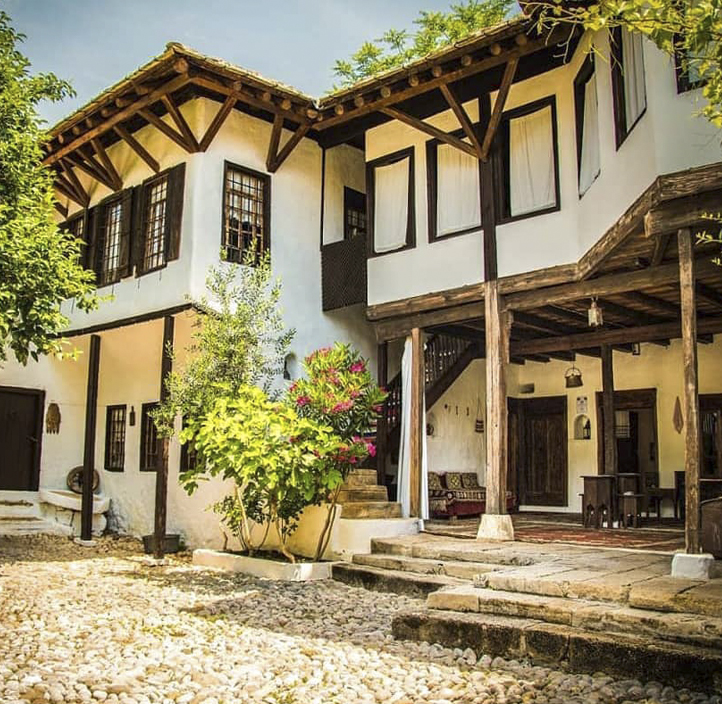
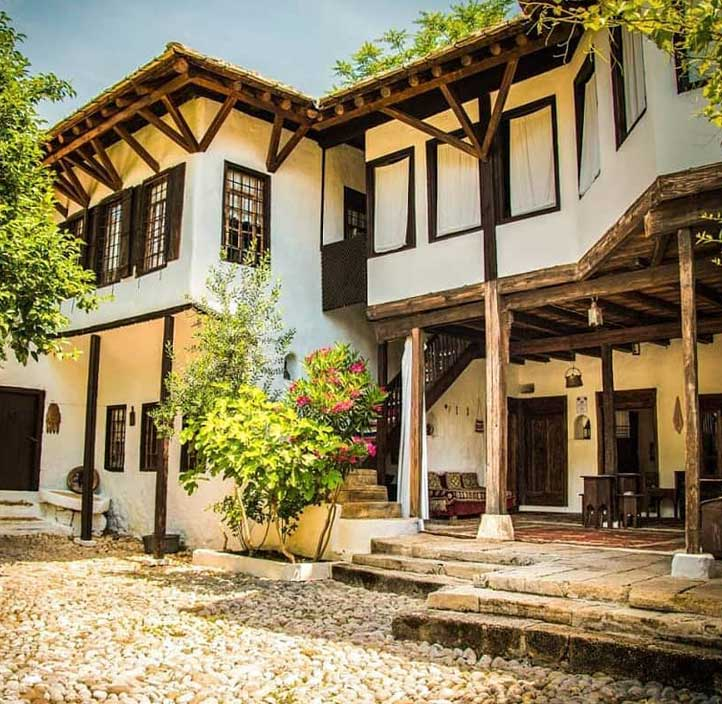
slike optimizovane

diff --git a/index_ger.html b/index_ger.html
@@ -829,7 +829,7 @@ Mostars alte Brücke ist eine Steinbrücke aus Tenelija-Stein. Der Bogen ist fas
                 <br>
                 <img class="img-ispod" src="images/roman3.png" alt="alternative">
                 <br>
-                <img class="img-ispod" src="images/roman4.png" alt="alternative">
+                <img class="img-ispod" src="images/roman4.jpg" alt="alternative">
             </div>
             <a class="btn-outline-reg mfp-close as-button" href="#services">ZURÜCK</a>
         </div> <!-- end of row -->

diff --git a/index.html b/index.html
@@ -853,7 +853,7 @@
                 <br>
                 <img loading="lazy" class="img-ispod" src="images/roman3.png" alt="alternative">
                 <br>
-                <img loading="lazy" class="img-ispod" src="images/roman4.png" alt="alternative">
+                <img loading="lazy" class="img-ispod" src="images/roman4.jpg" alt="alternative">
             </div>
             <a class="btn-outline-reg mfp-close as-button" href="#services">BACK</a>
         </div> <!-- end of row -->
